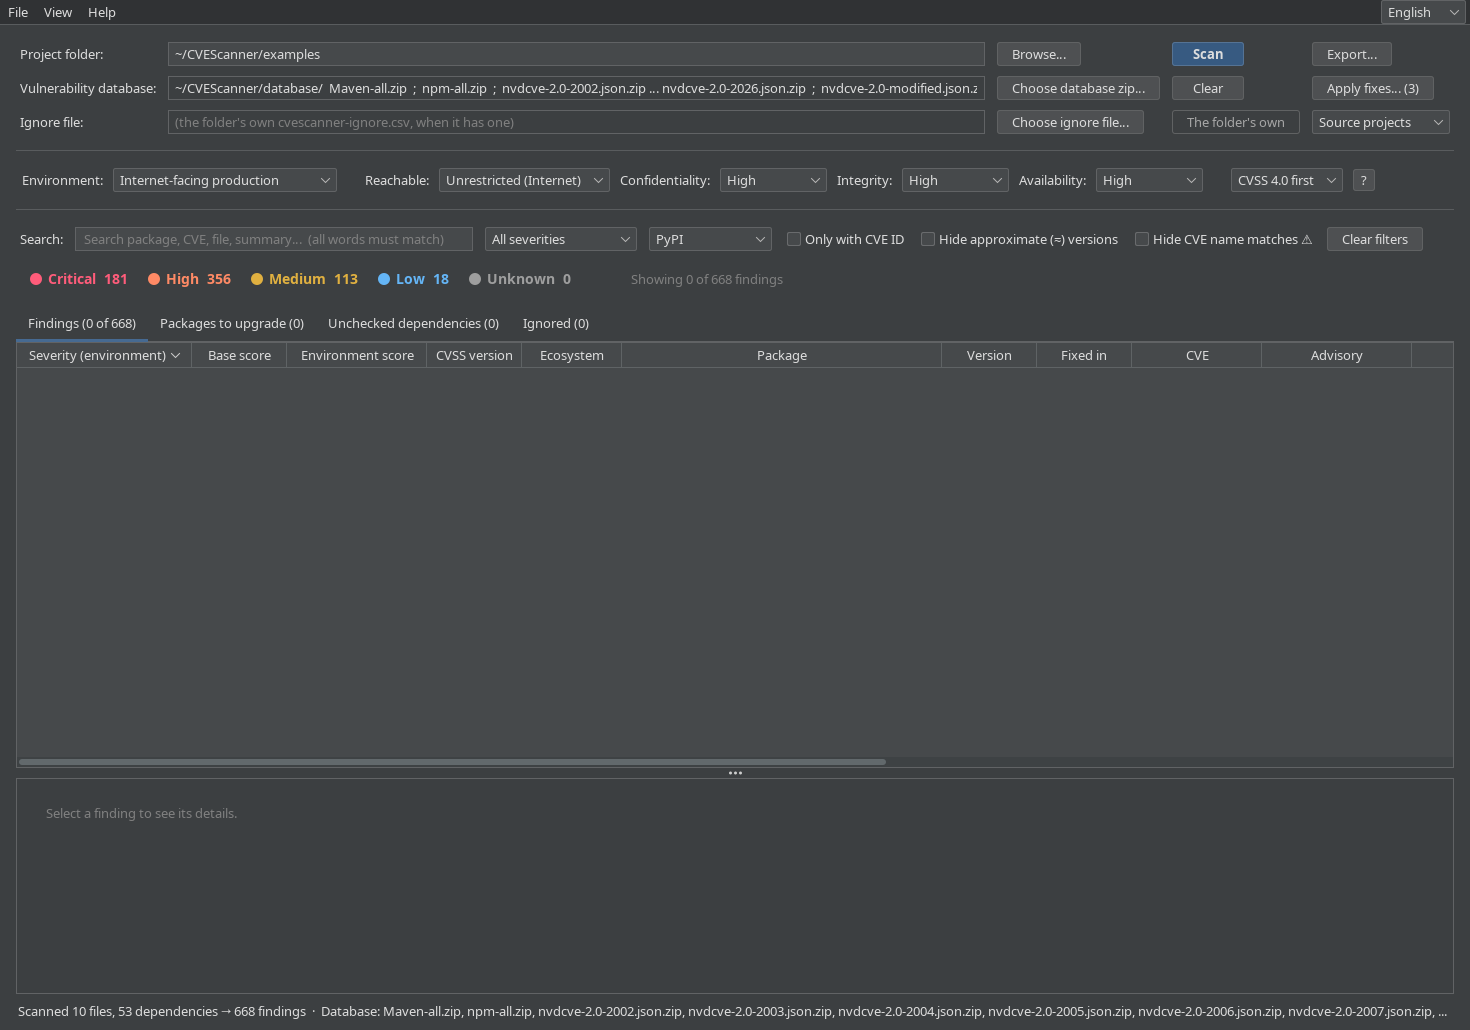
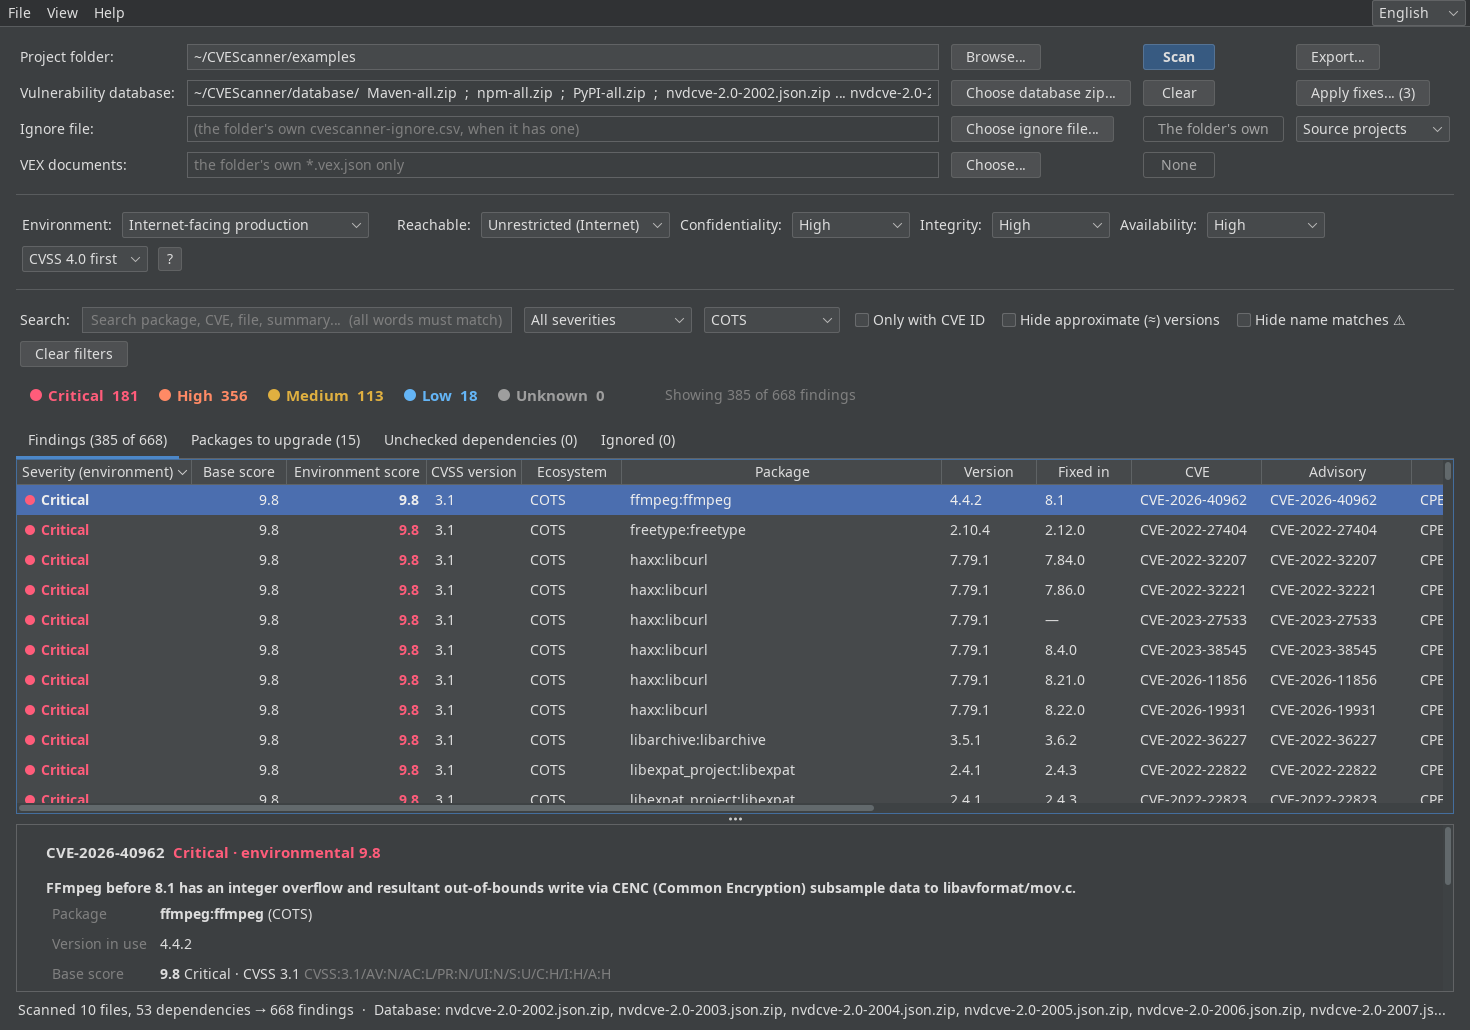
The README's pictures taken again, in English and French, with one of a VEX document (scripts/screenshots.sh); a language chosen measures the drop-down lists again
Claude-Session: https://claude.ai/code/session_01SJHphkdyQqb6mk3bgEvXAA

diff --git a/cvescanner-app/src/test/java/org/jtools/cvescanner/ScreenshotsTest.java b/cvescanner-app/src/test/java/org/jtools/cvescanner/ScreenshotsTest.java
@@ -1,0 +1,142 @@
+package org.jtools.cvescanner;
+
+/*-
+ * #%L
+ * CVEScanner
+ * %%
+ * Copyright (C) 2026 jtools.org
+ * %%
+ * Licensed under the Apache License, Version 2.0 (the "License");
+ * you may not use this file except in compliance with the License.
+ * You may obtain a copy of the License at
+ *
+ *      http://www.apache.org/licenses/LICENSE-2.0
+ *
+ * Unless required by applicable law or agreed to in writing, software
+ * distributed under the License is distributed on an "AS IS" BASIS,
+ * WITHOUT WARRANTIES OR CONDITIONS OF ANY KIND, either express or implied.
+ * See the License for the specific language governing permissions and
+ * limitations under the License.
+ * #L%
+ */
+
+import java.awt.Dimension;
+import java.io.File;
+import java.nio.file.Files;
+import java.nio.file.Path;
+import java.util.ArrayList;
+import java.util.List;
+import javax.swing.JComboBox;
+import javax.swing.SwingUtilities;
+import org.jtools.cvescanner.i18n.I18n;
+import org.jtools.cvescanner.i18n.I18nLanguage;
+import org.junit.jupiter.api.AfterEach;
+import org.junit.jupiter.api.Assumptions;
+import org.junit.jupiter.api.Test;
+import org.junit.jupiter.api.io.TempDir;
+
+/**
+ * The README's pictures, in English and in French: the examples scanned with real databases (the findings, the
+ * packages to upgrade, the components off-the-shelf in a dark look), and a VEX document's statements in the samples.
+ * Only with -Dcvescanner.screenshots=DIR and the databases in -Dcvescanner.screenshotDbs (scripts/screenshots.sh).
+ */
+class ScreenshotsTest {
+
+    private static final Path ROOT = Path.of("..").toAbsolutePath().normalize();
+    private static final Path SAMPLES = ROOT.resolve("samples");
+    private static final Dimension SIZE = new Dimension(1470, 1030);
+
+    @TempDir
+    Path settings;
+    private WindowDriver w;
+
+    @AfterEach
+    void stop() throws Exception {
+        if (w != null) w.close();
+        I18n.use(I18nLanguage.ENGLISH);
+    }
+
+    @Test
+    void theReadmesPictures() throws Exception {
+        String out = System.getProperty("cvescanner.screenshots");
+        Assumptions.assumeTrue(out != null, "the README's pictures are taken with -Dcvescanner.screenshots=DIR");
+        var databases = new ArrayList<String>();
+        for (String db : System.getProperty("cvescanner.screenshotDbs", "").split(File.pathSeparator))
+            if (!db.isBlank()) databases.addAll(List.of("--db", db));
+        for (I18nLanguage language : List.of(I18nLanguage.ENGLISH, I18nLanguage.FRENCH)) {
+            Path dir = Files.createDirectories(language == I18nLanguage.ENGLISH ? Path.of(out) : Path.of(out, "fr"));
+            examples(language, databases, dir);
+            vex(language, dir);
+        }
+    }
+
+    /** The paths a picture shows as a reader's would be: no build machine's folders. */
+    private void show(String name, String text) throws Exception {
+        var field = w.named(name, javax.swing.JTextField.class);
+        SwingUtilities.invokeAndWait(() -> {
+            field.setText(text);
+            field.setCaretPosition(0);
+        });
+    }
+
+    private void open(I18nLanguage language, String folder, Path settingsFolder, List<String> more) throws Exception {
+        var args = new ArrayList<>(List.of("-d", folder));
+        args.addAll(more);
+        w = WindowDriver.start(settingsFolder, args.toArray(String[]::new));
+        SwingUtilities.invokeAndWait(() -> w.window.setSize(SIZE));
+        if (language != I18nLanguage.ENGLISH) {
+            w.choose(w.named("language", JComboBox.class), language.toString());
+            w.waitUntil("the window in " + language, () -> I18n.language() == language);
+        }
+    }
+
+    /** The examples for an internet-facing environment: Log4Shell selected, three packages ticked, the COTS in the dark. */
+    private void examples(I18nLanguage language, List<String> databases, Path dir) throws Exception {
+        var more = new ArrayList<>(databases);
+        more.addAll(List.of("--env", "internet"));
+        open(language, ROOT.resolve("examples").toString(), Files.createDirectories(settings.resolve("examples-" + language)), more);
+        show("folder", "~/CVEScanner/examples");
+        show("databases", "~/CVEScanner/database/  Maven-all.zip  ;  npm-all.zip  ;  PyPI-all.zip  ;  nvdcve-2.0-2002.json.zip … "
+                + "nvdcve-2.0-2026.json.zip  ;  nvdcve-2.0-modified.json.zip");
+        w.clickRow("CVE-2021-44228", 5);
+        w.screenshot(dir.resolve("findings.png"));
+
+        w.clickTab(1);
+        for (String pkg : List.of("jackson-databind", "axios", "netty-codec-http")) w.clickRow(pkg, 0);
+        w.clickRow("jackson-databind", 3);
+        w.screenshot(dir.resolve("packages.png"));
+
+        w.clickTab(0);
+        w.choose(w.named("ecosystem", JComboBox.class), I18n.text("filter.cots"));
+        w.menu(I18n.text("menu.view"), I18n.text("menu.look"), "FlatLaf Dark");
+        w.waitUntil("the dark look", Looks::isDark);
+        w.clickRow("CVE-", 5);
+        w.screenshot(dir.resolve("cots-dark.png"));
+        w.menu(I18n.text("menu.view"), I18n.text("menu.look"), "FlatLaf Light");
+        w.waitUntil("the light look", () -> !Looks.isDark());
+        w.close();
+        w = null;
+    }
+
+    /** The samples with a VEX document of their own (named from the folder, as the details say it): the Ignored tab. */
+    private void vex(I18nLanguage language, Path dir) throws Exception {
+        Path projects = settings.resolve("projects-" + language);
+        try (var files = Files.walk(SAMPLES.resolve("projects"))) {
+            for (Path p : (Iterable<Path>) files::iterator) {
+                Path to = projects.resolve(SAMPLES.resolve("projects").relativize(p).toString());
+                if (Files.isDirectory(p)) Files.createDirectories(to);
+                else Files.copy(p, to);
+            }
+        }
+        Files.copy(SAMPLES.resolve("vex/product.vex.json"), projects.resolve("product.vex.json"));
+        open(language, projects.toString(), Files.createDirectories(settings.resolve("vex-" + language)),
+                List.of("--db", SAMPLES.resolve("db/advisory-database-main.zip").toString()));
+        show("folder", "~/CVEScanner/samples/projects");
+        show("databases", "~/CVEScanner/samples/db/advisory-database-main.zip");
+        w.clickTab(3);
+        w.clickRow("lodash", 3);
+        w.screenshot(dir.resolve("vex.png"));
+        w.close();
+        w = null;
+    }
+}

diff --git a/cvescanner-app/src/main/java/org/jtools/cvescanner/FilterBar.java b/cvescanner-app/src/main/java/org/jtools/cvescanner/FilterBar.java
@@ -67,6 +67,7 @@ final class FilterBar {
         var searchTimer = new Timer(200, _ -> changed.run());
         searchTimer.setRepeats(false);
         cveOnlyBox.setSelected(cveOnly);
+        ecosystemCombo.setName("ecosystem");   // for the window test and the README's pictures (WindowDriver)
         panel.setBorder(BorderFactory.createEmptyBorder(6, 8, 2, 8));
         labels.bind(searchField::setHint, "filter.searchHint");
         searchField.getDocument().addDocumentListener(new DocumentListener() {

diff --git a/cvescanner-app/src/test/java/org/jtools/cvescanner/WindowDriver.java b/cvescanner-app/src/test/java/org/jtools/cvescanner/WindowDriver.java
@@ -65,7 +65,8 @@ import org.jtools.cvescanner.cli.Options;
  */
 final class WindowDriver implements AutoCloseable {
 
-    private static final Duration WAIT = Duration.ofSeconds(60);
+    /** How long a step may take: a scan of real databases takes minutes (-Dcvescanner.windowWait, in seconds). */
+    private static final Duration WAIT = Duration.ofSeconds(Integer.getInteger("cvescanner.windowWait", 60));
 
     private final Robot robot;
     final MainWindow window;

diff --git a/cvescanner-app/src/main/java/org/jtools/cvescanner/MainWindow.java b/cvescanner-app/src/main/java/org/jtools/cvescanner/MainWindow.java
@@ -260,6 +260,9 @@ final class MainWindow extends JFrame {
         useSwingLocale();
         labels.relabel();
         languageBox.show(chosen);
+        // a combo box keeps the width its texts had: measured again in the new language, as after a change of look
+        SwingUtilities.updateComponentTreeUI(this);
+        showSeverityColors();
     }
 
     /** Swing's own dialogs (the file chooser's buttons, a message's OK) in the language in use. */

diff --git a/cvescanner-app/src/main/java/org/jtools/cvescanner/DatabaseChoice.java b/cvescanner-app/src/main/java/org/jtools/cvescanner/DatabaseChoice.java
@@ -64,6 +64,7 @@ final class DatabaseChoice {
         if (!given.isEmpty()) files.addAll(given);
         else restore();
         field.setEditable(false);
+        field.setName("databases");   // for the window test and the README's pictures (WindowDriver)
         labels.text(clearButton, "toolbar.clearDatabase");
         clearButton.addActionListener(_ -> set(List.of()));
         labels.on(this::updateField);

diff --git a/README.md b/README.md
@@ -159,7 +159,7 @@ on the right of the menus. The choices are kept in `cvescanner.properties`, besi
 
 ![Packages to upgrade: one row per package version and the version that fixes its findings, three ticked for Apply fixes](docs/images/packages.png)
 
-![The components off-the-shelf of the examples (FFmpeg, curl, OpenSSL…) matched against NVD, in a dark look](docs/images/cots-dark.png)
+![The components off-the-shelf of the examples (FFmpeg, curl, OpenSSL…) matched against NVD, in a dark look: 385 of the 668 findings](docs/images/cots-dark.png)
 
 ## The command line
 
@@ -241,6 +241,8 @@ named by package URL (`pkg:maven/…`, `pkg:npm/…`, `pkg:pypi/…`, `pkg:gener
 `resolved` statement sets nothing aside (the scan still finds the version said to be fixed); `in_triage` and
 `exploitable` ones are shown with the finding. *Stop ignoring* does not apply to them: the document is the product
 team's, to change there. The SBOM CVEScanner writes, `bom.cdx.json`, is read back as one when renamed `*.vex.json`.
+
+![The samples with their VEX document: two findings set aside in the Ignored tab, lodash's not_affected statement in its details](docs/images/vex.png)
 
 ## Applying fixes
 
@@ -358,6 +360,18 @@ air-gapped system. The CVSS 4.0 scoring is ported from the FIRST/Red Hat referen
 NOTICE).
 
 ## Languages
+
+**En français** — la fenêtre, la ligne de commande et `report.md` parlent aussi français (*Français* à droite des
+menus, ou `--lang fr`) :
+
+![Les exemples analysés pour un environnement exposé à Internet : 668 résultats, Log4Shell sélectionné](docs/images/fr/findings.png)
+
+![Les paquets à mettre à jour, trois cochés pour Appliquer les correctifs](docs/images/fr/packages.png)
+
+![Les composants sur étagère des exemples, rapprochés de la NVD, dans un thème sombre](docs/images/fr/cots-dark.png)
+
+![Les échantillons avec leur document VEX : deux résultats mis de côté dans l'onglet Ignorés](docs/images/fr/vex.png)
+
 
 Every text a user reads is in a `messages_<code>.properties` file of its module, one per language, the same keys in
 each: the scan's in `cvescanner-core/…/i18n/texts/`, the window's in `cvescanner-app/…/texts/`. `I18n` finds each

diff --git a/CHANGELOG.md b/CHANGELOG.md
@@ -17,6 +17,9 @@ checksums.
   external parent or an imported BOM manages is now resolved too. `--maven-repo DIR`, `--no-transitive`, *View ▸
   Maven transitive dependencies*. Checked against `mvn dependency:list` on a Spring Boot project: the same 85
   dependencies, versions and scopes.
+- **The README's pictures taken again**, in English and in French (`docs/images/fr`), with one of a VEX document; by
+  `scripts/screenshots.sh`, the window driven on a virtual display (`ScreenshotsTest`).
+- **A language chosen in the window** measures its drop-down lists again: a French label is no longer cut short.
 - **The window tested on every build**: `WindowChecklistTest` starts the window and clicks it through on a virtual
   display (a scan, the packages ticked and the plan of Apply fixes, an installed product, a VEX document, the database
   age, French), in `scripts/ci.sh` and the build workflow; `scripts/window-check.sh` runs it alone.

diff --git a/CLAUDE.md b/CLAUDE.md
@@ -31,6 +31,7 @@ scripts/setup.sh      # once: external/jdk and external/maven
 scripts/build.sh      # build + tests (extra arguments go to mvn)
 scripts/ci.sh         # clean build with every test, the window test under xvfb-run; run by .githooks/pre-push
 scripts/window-check.sh  # the window test alone (WindowChecklistTest), on a virtual display
+scripts/screenshots.sh DB...  # the README's pictures, English and French, the examples scanned with real databases
 scripts/run.sh        # the window (or: scripts/run.sh --no-gui -d DIR --db ZIP ...)
 scripts/package.sh    # releases/cvescanner-<version>-linux.tar.gz
 ```
